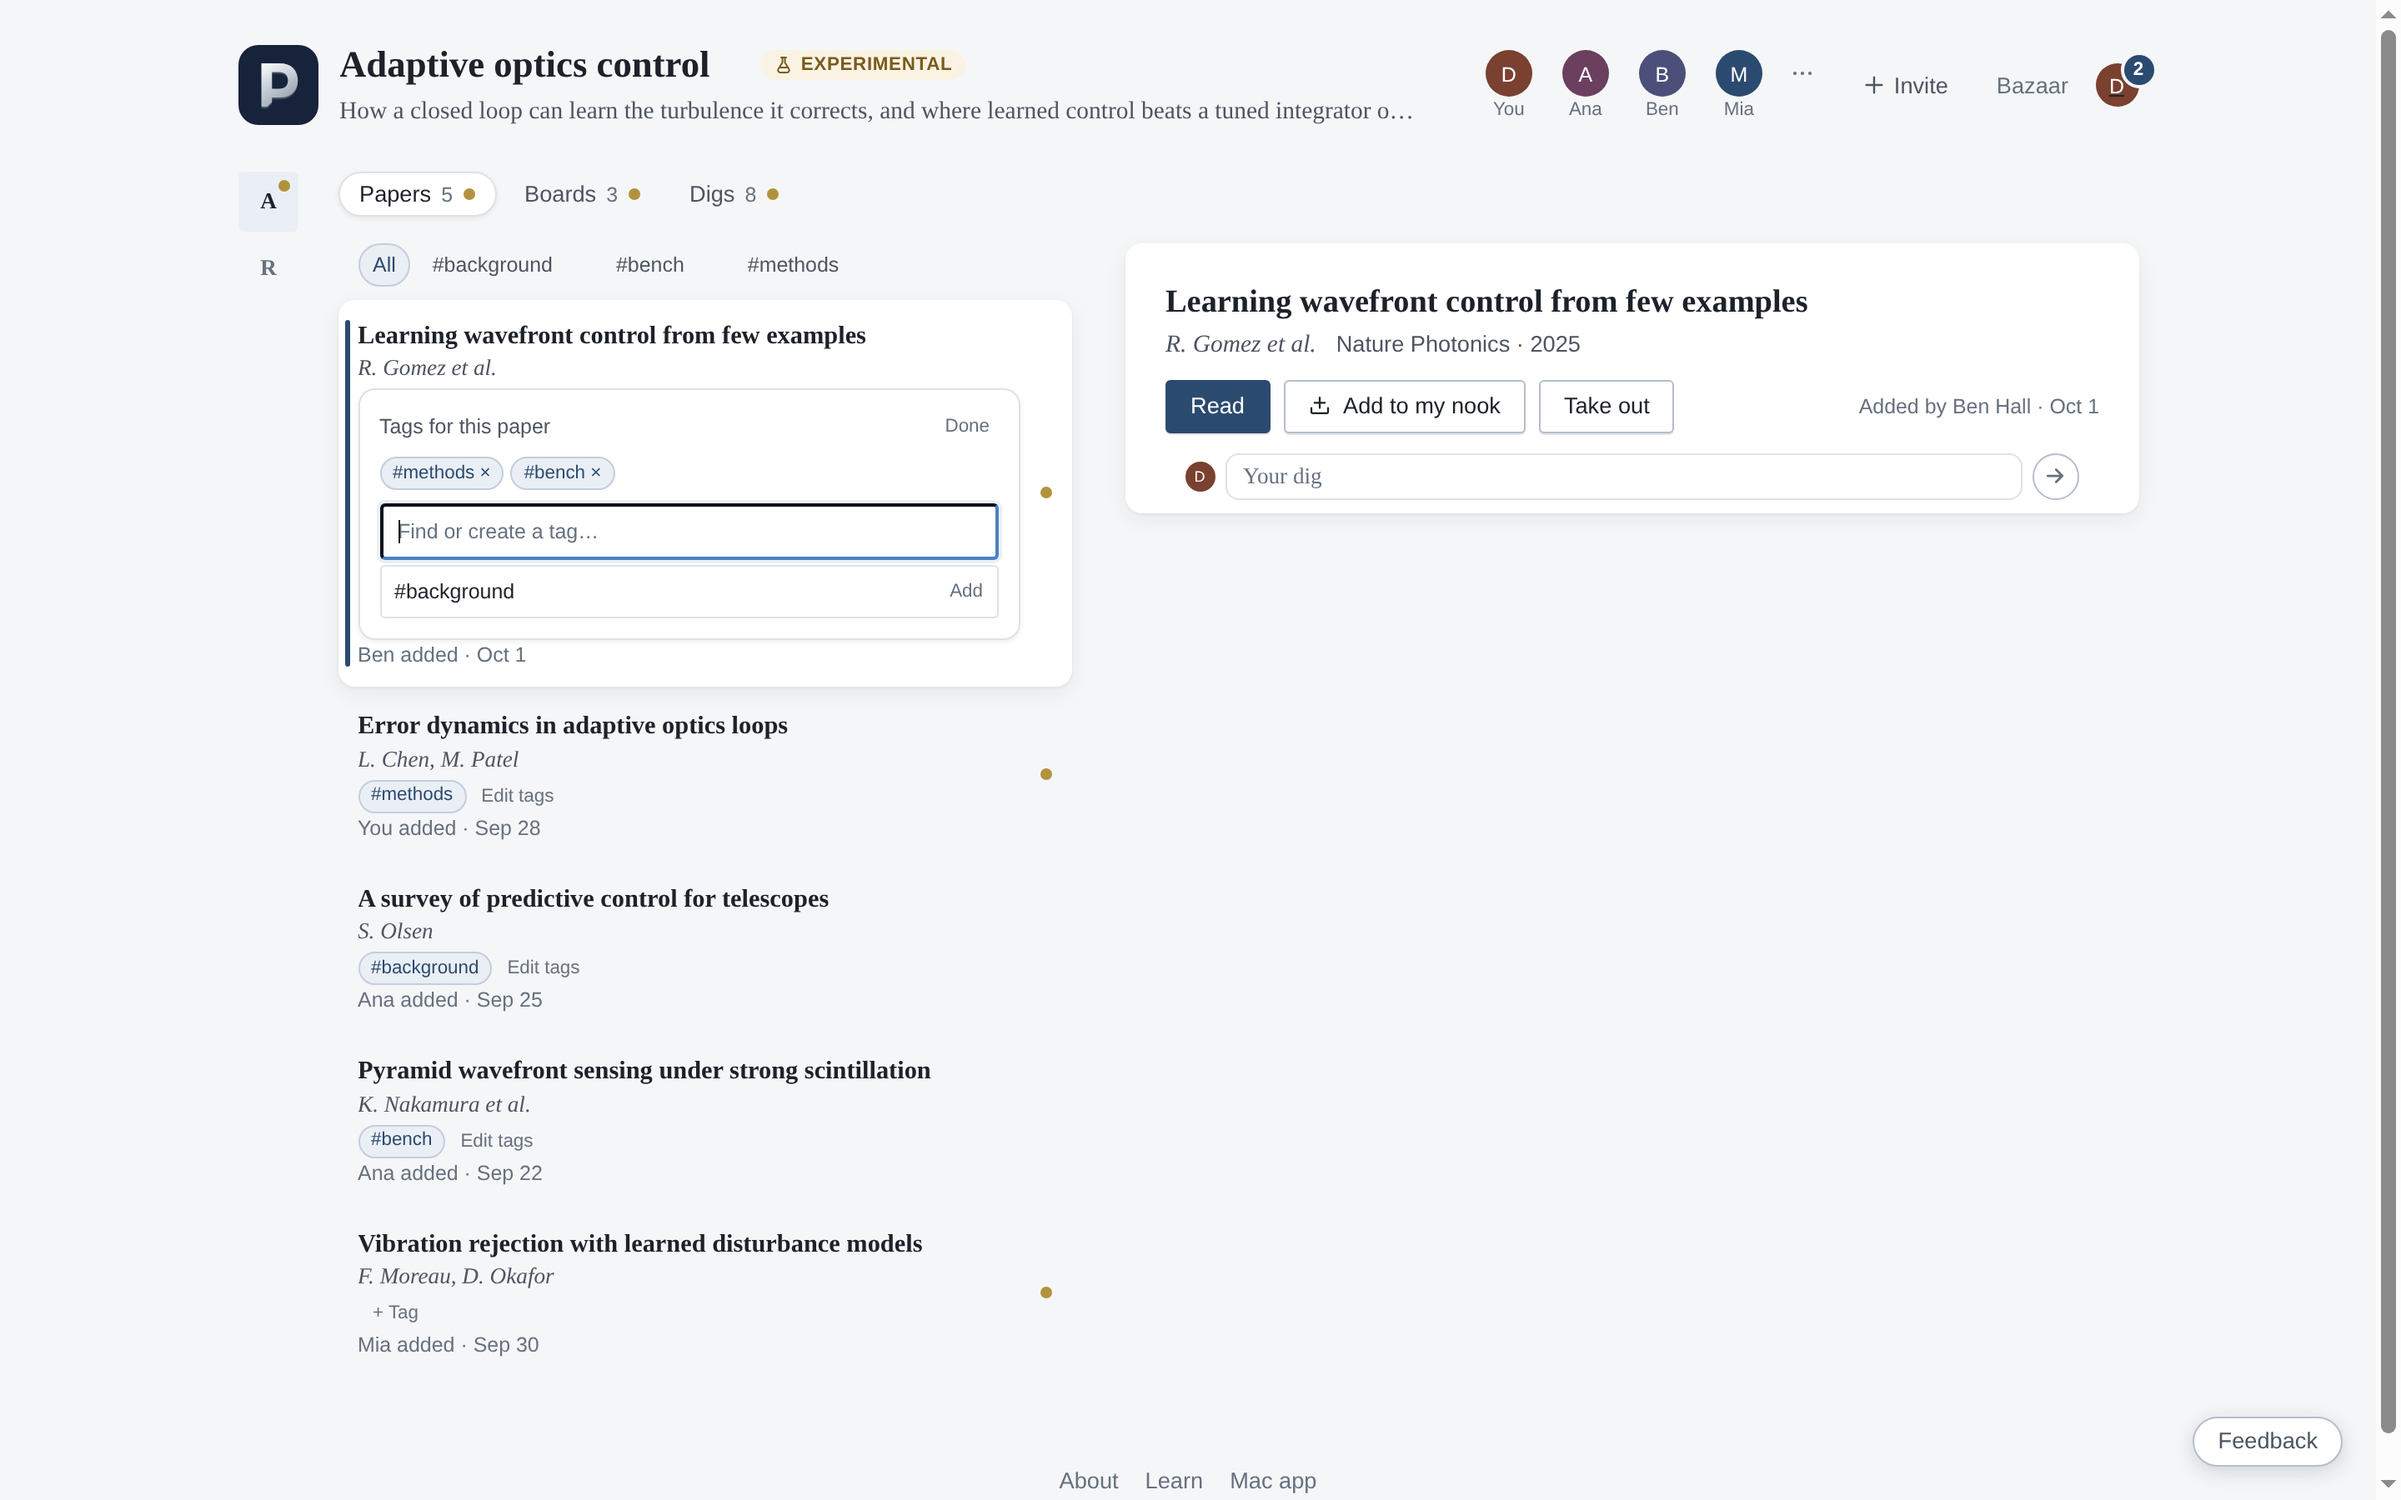
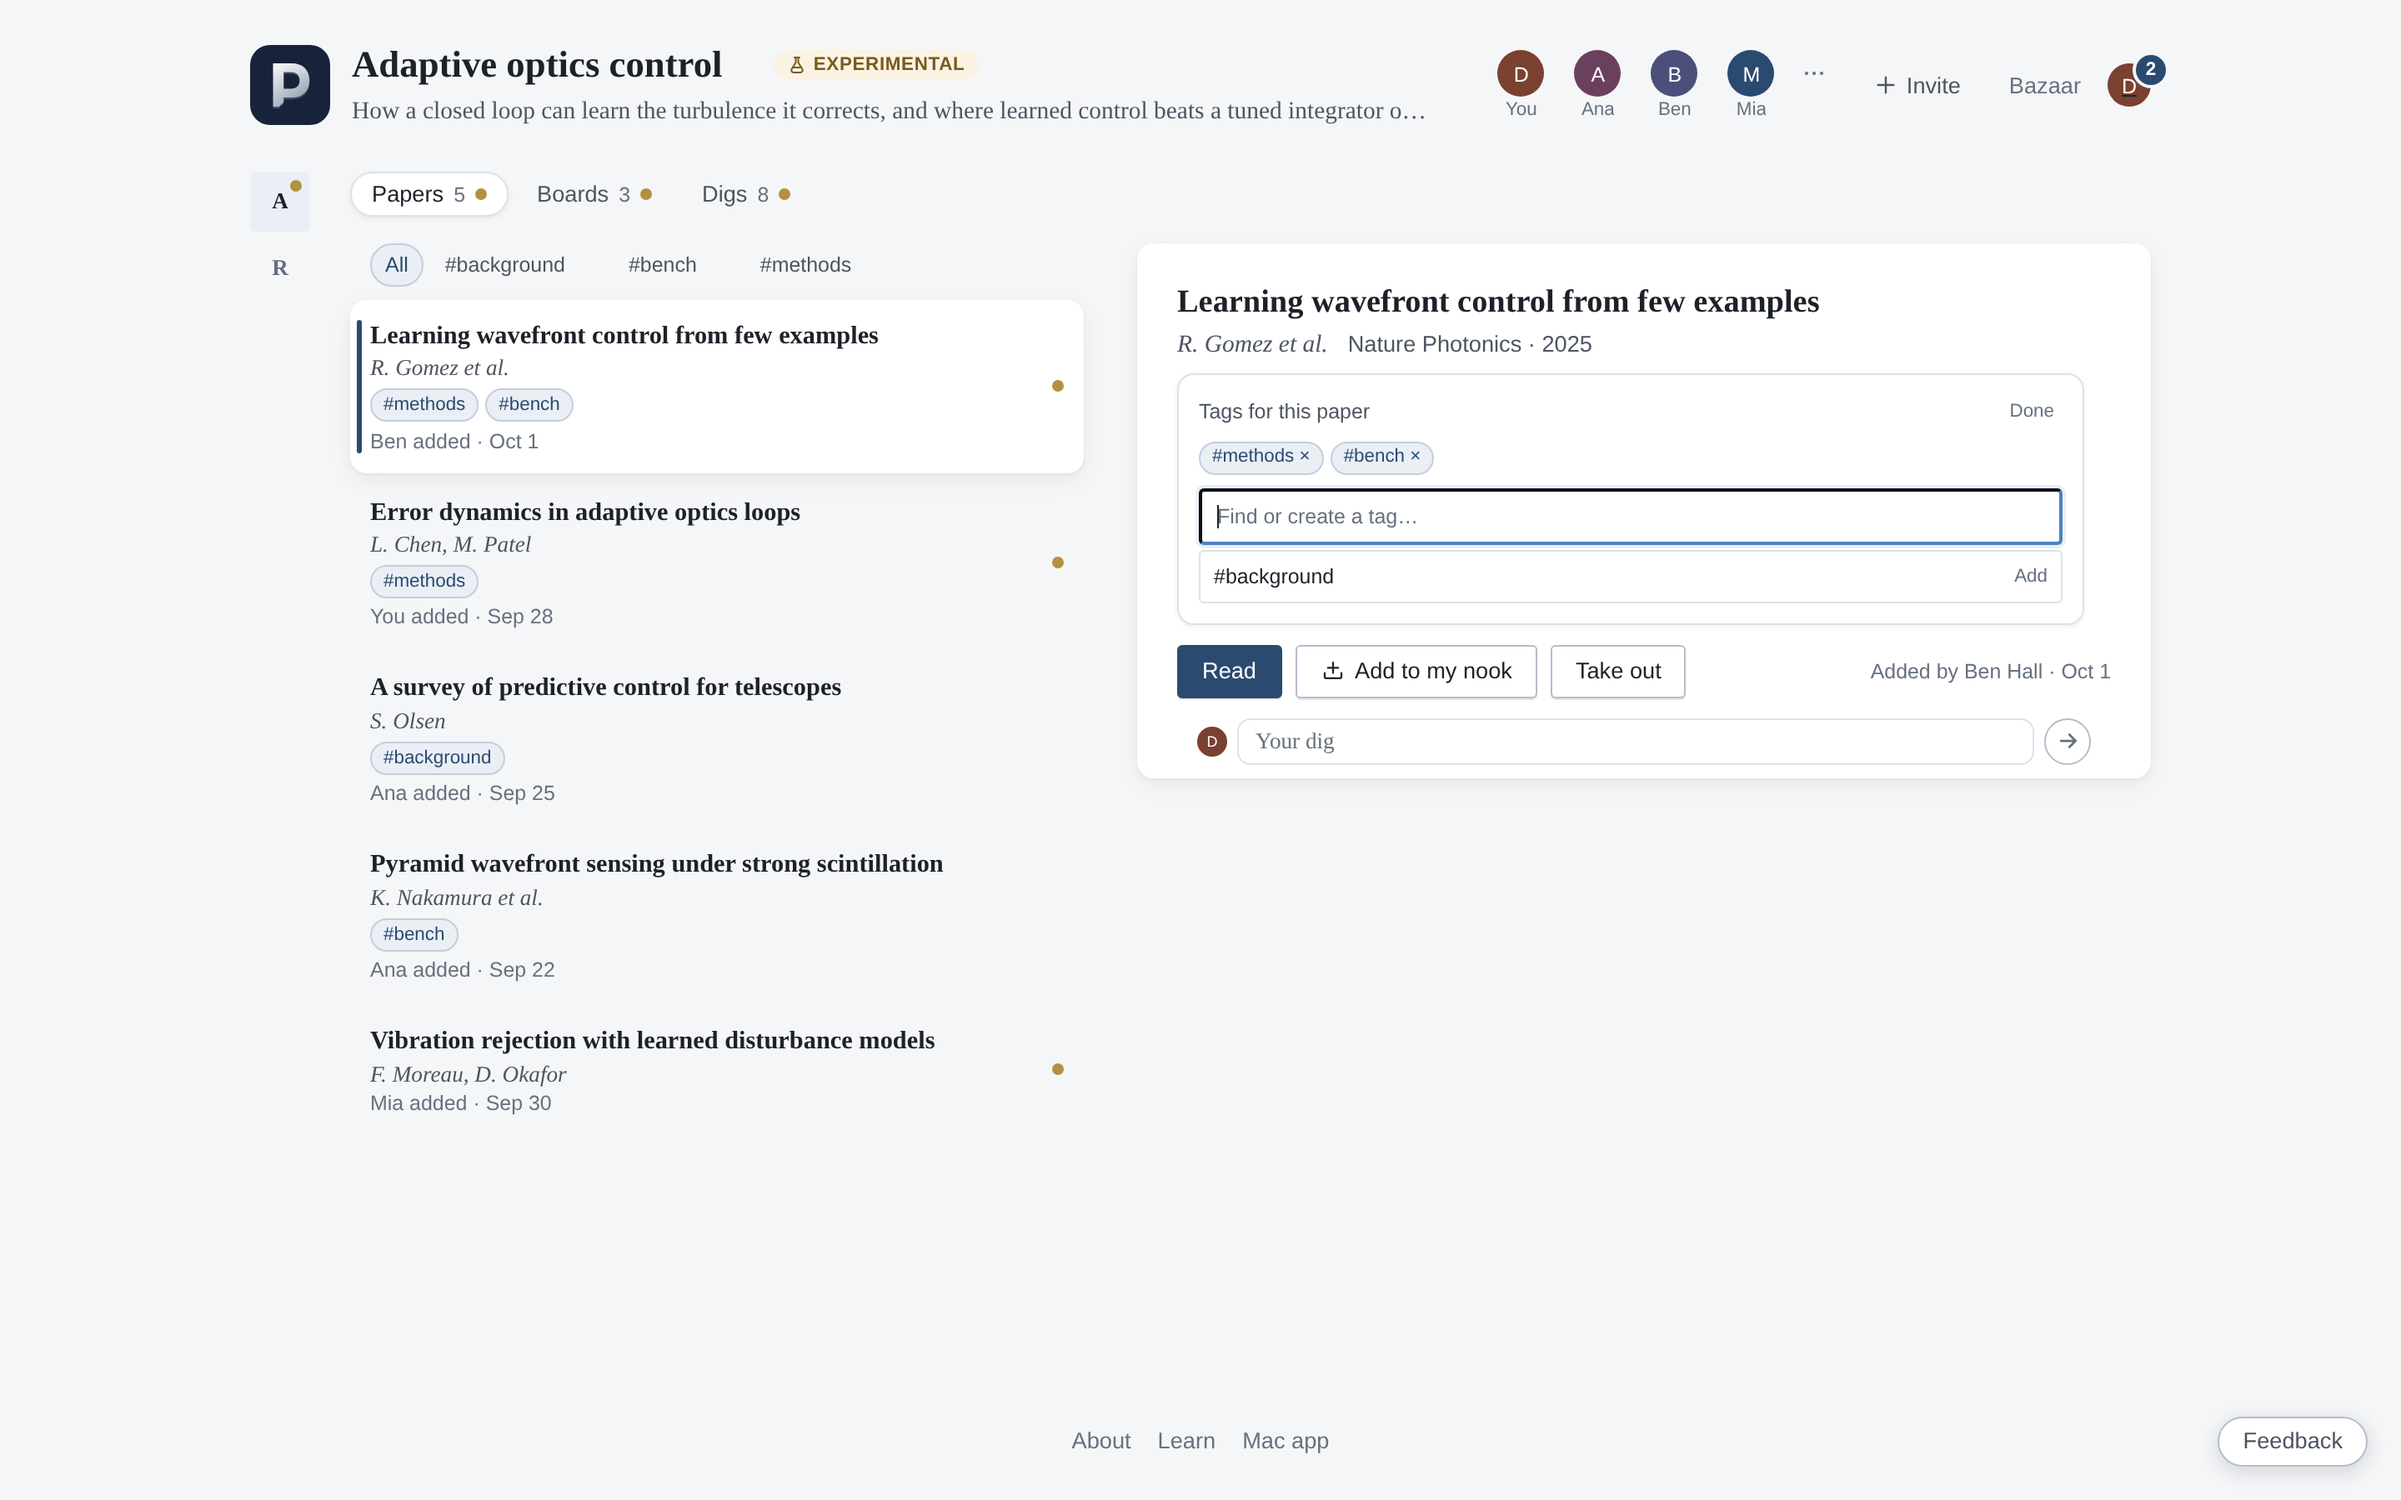
Move project tag editing into paper brief

diff --git a/shared/applicationStyles.js b/shared/applicationStyles.js
@@ -5242,7 +5242,7 @@ button.project-quiet.project-danger:hover:not(:disabled) { background: var(--red
 .project-tags-none { margin: var(--space-5) var(--space-3); color: var(--ink-faint); font: var(--fs-sm) var(--font-ui); }
 .project-tag-filter-error { margin: 0 var(--space-3) var(--space-2); color: var(--red); font: var(--fs-xs) var(--font-ui); }
 .project-paper-tags { display: flex; flex-wrap: wrap; align-items: center; gap: 4px; margin-top: 4px; font-family: var(--font-ui); }
-.project-paper-tag-list { display: inline-flex; flex-wrap: wrap; gap: 4px; }
+.project-paper-tag-list { display: inline-flex; flex-wrap: wrap; gap: 4px; margin-top: 4px; }
 .project-paper-tag { display: inline-flex; align-items: center; min-height: 20px; padding: 1px 7px; border: 1px solid var(--accent-line); border-radius: var(--radius-pill); background: var(--accent-soft); color: var(--accent); font: 500 var(--fs-2xs)/1.3 var(--font-ui); }
 .project-tag-edit, .project-tag-done { min-height: 20px; padding: 1px 5px; border: 0; background: transparent; box-shadow: none; color: var(--ink-faint); font: 500 var(--fs-2xs) var(--font-ui); }
 .project-tag-edit:hover:not(:disabled), .project-tag-edit:focus-visible, .project-tag-done:hover:not(:disabled), .project-tag-done:focus-visible { border: 0; background: transparent; color: var(--accent); }
@@ -5263,6 +5263,8 @@ button.project-paper-tag.is-removable:hover:not(:disabled), button.project-paper
 .project-tag-options button span:last-child { color: var(--ink-faint); font-size: var(--fs-2xs); }
 .project-tag-options .project-tag-create { color: var(--accent); }
 .project-tag-error { color: var(--red); font: var(--fs-2xs) var(--font-ui); }
+.paper-brief-tags .project-paper-tags { margin-top: var(--space-1); }
+.paper-brief-tags .project-tag-editor { max-width: 34rem; }
 @media (hover: none) {
   .project-tag-filter > .project-tag-delete { opacity: 1; }
 }

diff --git a/frontend/src/projectTags.test.js b/frontend/src/projectTags.test.js
@@ -3,6 +3,7 @@ import { readFileSync } from 'node:fs';
 import test from 'node:test';
 
 const page = readFileSync(new URL('./components/ProjectPage.jsx', import.meta.url), 'utf8');
+const brief = readFileSync(new URL('./components/PaperBrief.jsx', import.meta.url), 'utf8');
 const api = readFileSync(new URL('../../shared/api/projects.js', import.meta.url), 'utf8');
 const tags = page.slice(page.indexOf('function ProjectPaperTags('), page.indexOf('// Each paper is a row'));
 const papers = page.slice(page.indexOf('function ProjectPapers('), page.indexOf('// Every dig'));
@@ -18,6 +19,12 @@ test('a paper can take an existing project tag or make a new one', () => {
   assert.match(tags, /addProjectPaperTag\(project\.uuid, paper\.sha256, tag\.uuid\)/);
   assert.match(tags, /removeProjectPaperTag\(project\.uuid, paper\.sha256, tag\.uuid\)/);
   assert.match(tags, /placeholder="Find or create a tag…"/);
+});
+
+test('paper rows show tags while editing belongs to the open brief', () => {
+  assert.match(papers, /tags={<ProjectPaperTags project={project} paper={paper} onChanged={onChanged} \/>}/);
+  assert.match(papers, /paper\.tags\.map\(\(item\) => <span className="project-paper-tag"/);
+  assert.match(brief, /{tags && <div className="paper-brief-tags">{tags}<\/div>}/);
 });
 
 test('the shared vocabulary filters papers and only a keeper can delete from it', () => {

diff --git a/frontend/src/components/ProjectPage.jsx b/frontend/src/components/ProjectPage.jsx
@@ -609,6 +609,7 @@ function ProjectPapers({ project, currentUser, hasNews, picked, onPick, onChange
     <PaperBrief
       key={paper.sha256} project={project} paper={paper} currentUser={currentUser} underRow={!wide}
       unread={unreadOn(paper)} onChanged={onChanged} onRead={onRead}
+      tags={<ProjectPaperTags project={project} paper={paper} onChanged={onChanged} />}
     />
   );
   const move = (e) => {
@@ -678,7 +679,11 @@ function ProjectPapers({ project, currentUser, hasNews, picked, onPick, onChange
                     </button>
                   </h4>
                   <p className="project-card-authors">{formatAuthors(paper.authors)}</p>
-                  <ProjectPaperTags project={project} paper={paper} onChanged={onChanged} />
+                  {(paper.tags ?? []).length > 0 && (
+                    <span className="project-paper-tag-list" aria-label="Project tags">
+                      {paper.tags.map((item) => <span className="project-paper-tag" key={item.uuid}>#{item.name}</span>)}
+                    </span>
+                  )}
                 </div>
                 <span className="project-row-facts">
                   <span className="project-row-cite">{where}</span>

diff --git a/frontend/src/components/PaperBrief.jsx b/frontend/src/components/PaperBrief.jsx
@@ -22,7 +22,7 @@ function day(iso) {
 // makes of it: its digs, one per member who wrote about it, each on its
 // own, with yours, or the line to write it, first. A stashed dig is out of
 // the way and shows only in the Digs tab.
-export default function PaperBrief({ project, paper, currentUser, unread = {}, underRow = false, onChanged, onRead }) {
+export default function PaperBrief({ project, paper, currentUser, unread = {}, underRow = false, onChanged, onRead, tags = null }) {
   const [notice, setNotice] = useState(null);
   const [digs, setDigs] = useState(null);
   const subject = `paper:${paper.sha256}`;
@@ -85,6 +85,7 @@ export default function PaperBrief({ project, paper, currentUser, unread = {}, u
             {where && <span>{where}</span>}
           </p>
         )}
+        {tags && <div className="paper-brief-tags">{tags}</div>}
         <div className="paper-brief-actions">
           <a className="button primary" href={viewer} data-document onClick={open(viewer)}>
             Read
